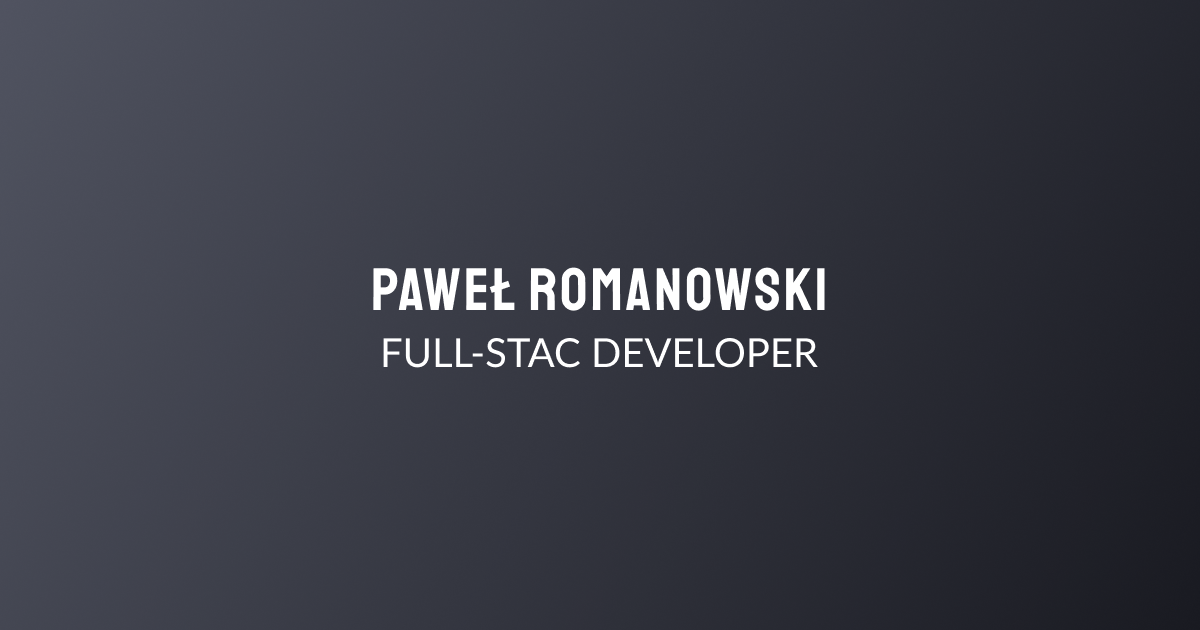
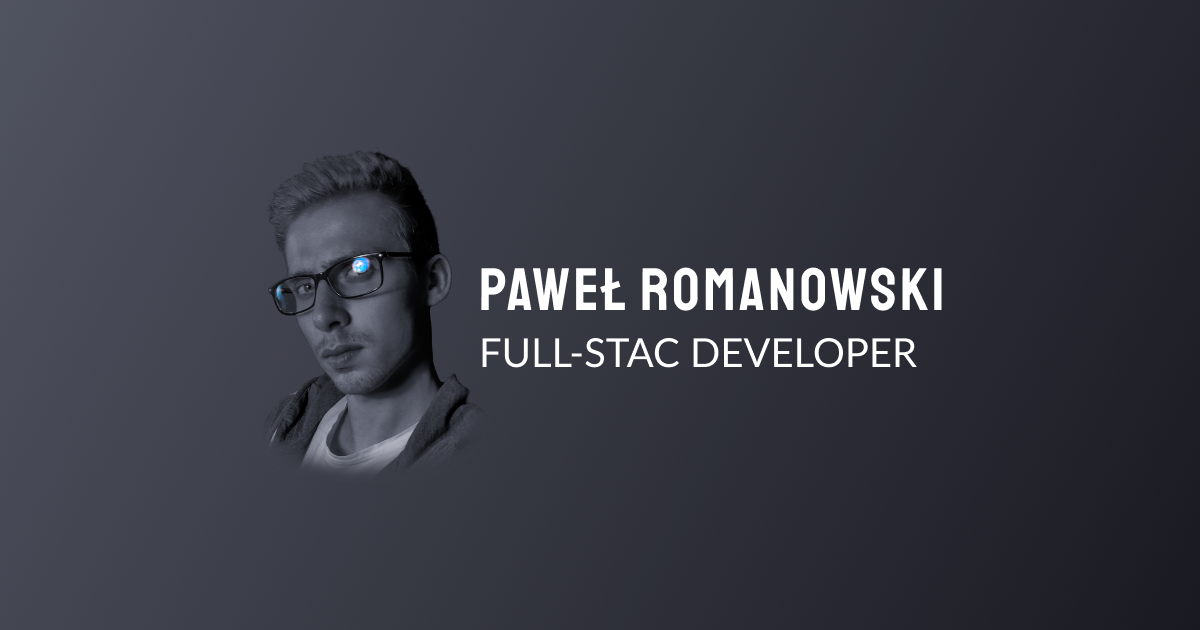
change images

Changed region(s): [[0.2158, 0.2413, 0.8017, 0.754]]

diff --git a/pages/index.tsx b/pages/index.tsx
@@ -7,7 +7,7 @@ import clsx from 'clsx'
 import style from '../styles/index.module.scss'
 import Layout from "../components/layout/base";
 import ContentInterface from '../public/languages/index/type'
-import profilePic from '../public/image/me.jpg'
+import profilePic from '../public/image/me.png'
 import {Client} from '../helpers/prismic'
 
 type props = {
@@ -21,9 +21,12 @@ const Home: FunctionComponent<props> = ({content}) => {
             <FullPage>
                 <FullPageItem>
                     <div className="h-full flex flex-col justify-around md:flex-row-reverse md:items-center">
-                        <div className='flex justify-center flex-1'>
-                            <div className={style.image}>
-                                <Image src={profilePic} className='rounded-full md:rounded-none' alt="Picture of the author"/>
+                        <div className='flex justify-center flex-1 h-full'>
+                            <div className="h-full w-2/3">
+                                <div className="aspect-w-4 aspect-h-5">
+                                    <Image src={profilePic} className='rounded-full md:rounded-none' layout="fill" objectFit="fill"
+                                           alt="Picture of the author"/>
+                                </div>
                             </div>
                         </div>
                         <div className="mb-9 flex-1">

diff --git a/tailwind.config.js b/tailwind.config.js
@@ -16,5 +16,7 @@ module.exports = {
   variants: {
     extend: {},
   },
-  plugins: [],
+  plugins: [
+    require('@tailwindcss/aspect-ratio'),
+  ],
 }

diff --git a/public/languages/portfolio/type.ts b/public/languages/portfolio/type.ts
@@ -1,0 +1,3 @@
+export default interface type extends seo{
+
+}
